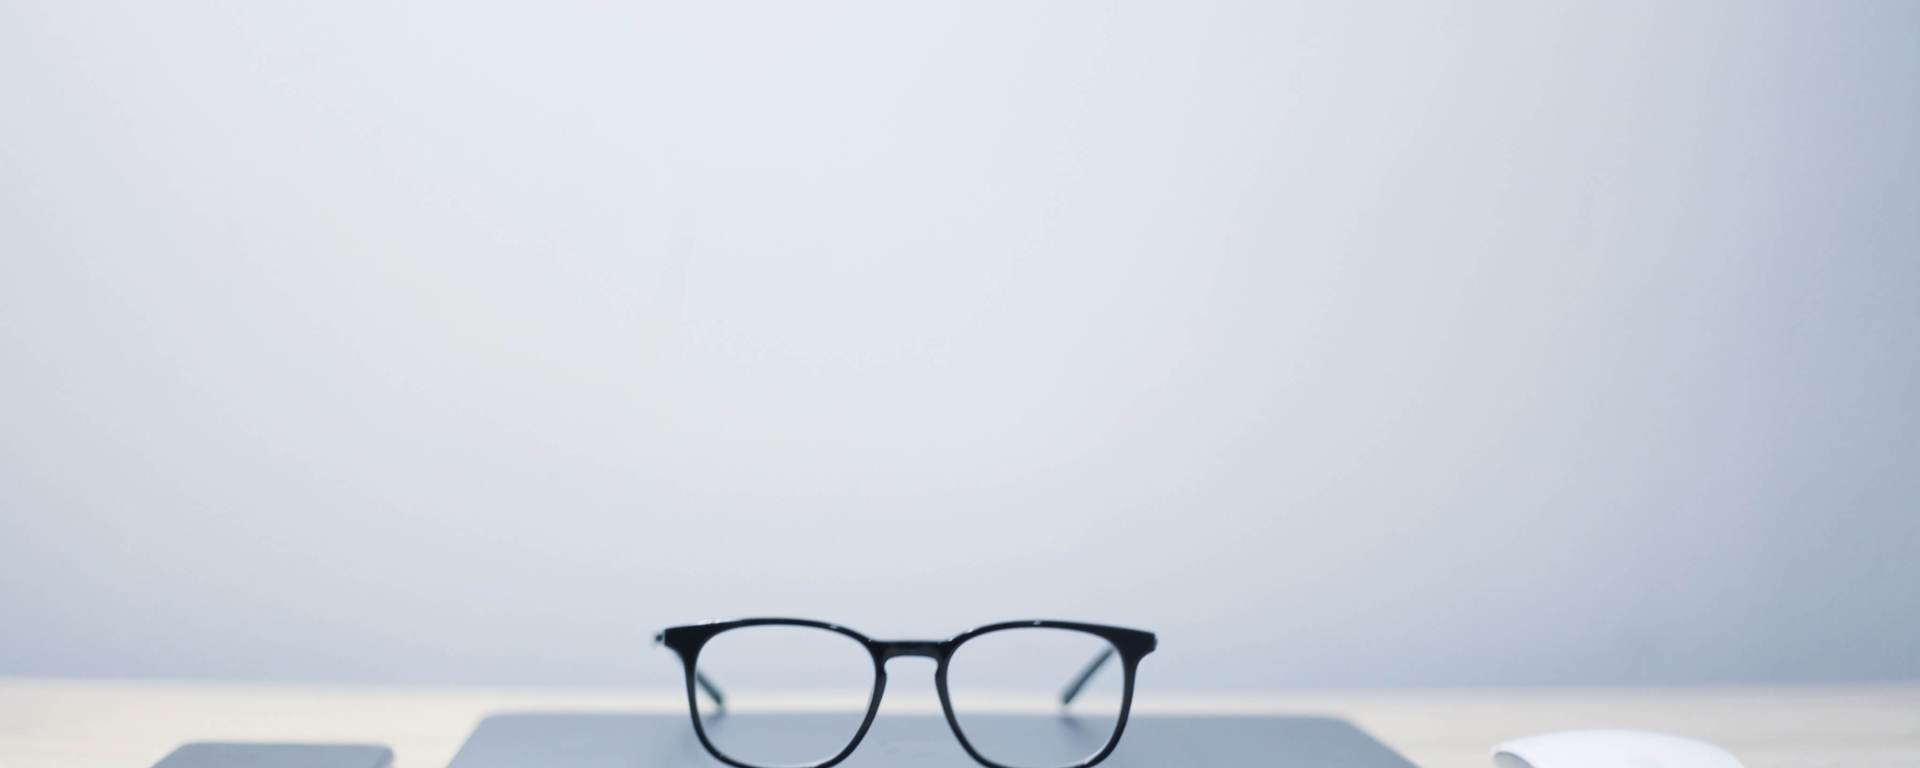
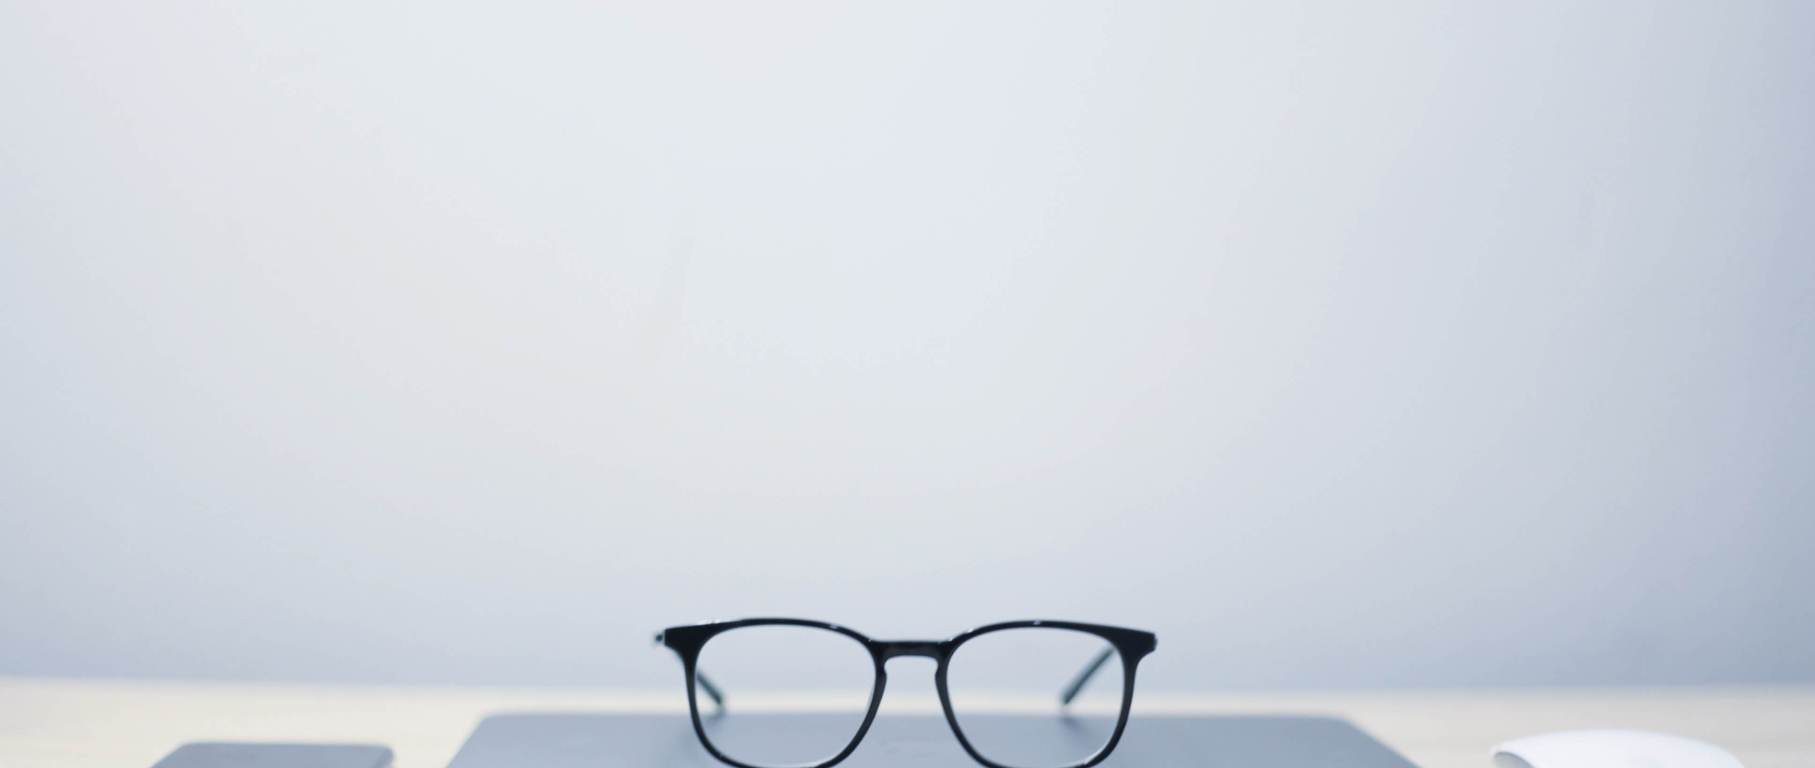
background-fixed

diff --git a/src/Components/Home/About/About.js b/src/Components/Home/About/About.js
@@ -15,8 +15,8 @@ const About = () => {
                         <img src={image} class="d-block w-100"  alt=""/>
                     </div>
                     <div class="col-md-6" data-aos="zoom-in-down">
-                        <h1 style={{textAlign:"center"}}>About <span style={{color:"#C7EA46"}}>Myself</span> </h1>
-                        <p style={{fontSize:30}}> Observe, Learn and Improve. Trying to learn new thing everyday. </p>
+                        <h1 style={{textAlign:"center"}}>About <span style={{color:"#C7EA46"}}>Myself</span></h1>
+                        <p style={{fontSize:30}}> Observe, Learn and Improve. Trying to learn new thing everyday.</p>
                     </div> 
                 </div>
             </div>

diff --git a/src/Components/Home/Home/Home.css b/src/Components/Home/Home/Home.css
@@ -3,6 +3,6 @@
     background-position: center;
     background-repeat: no-repeat;
     background-size: cover;
-    height: 1010px;
+    height: 100vh;
 }
 
